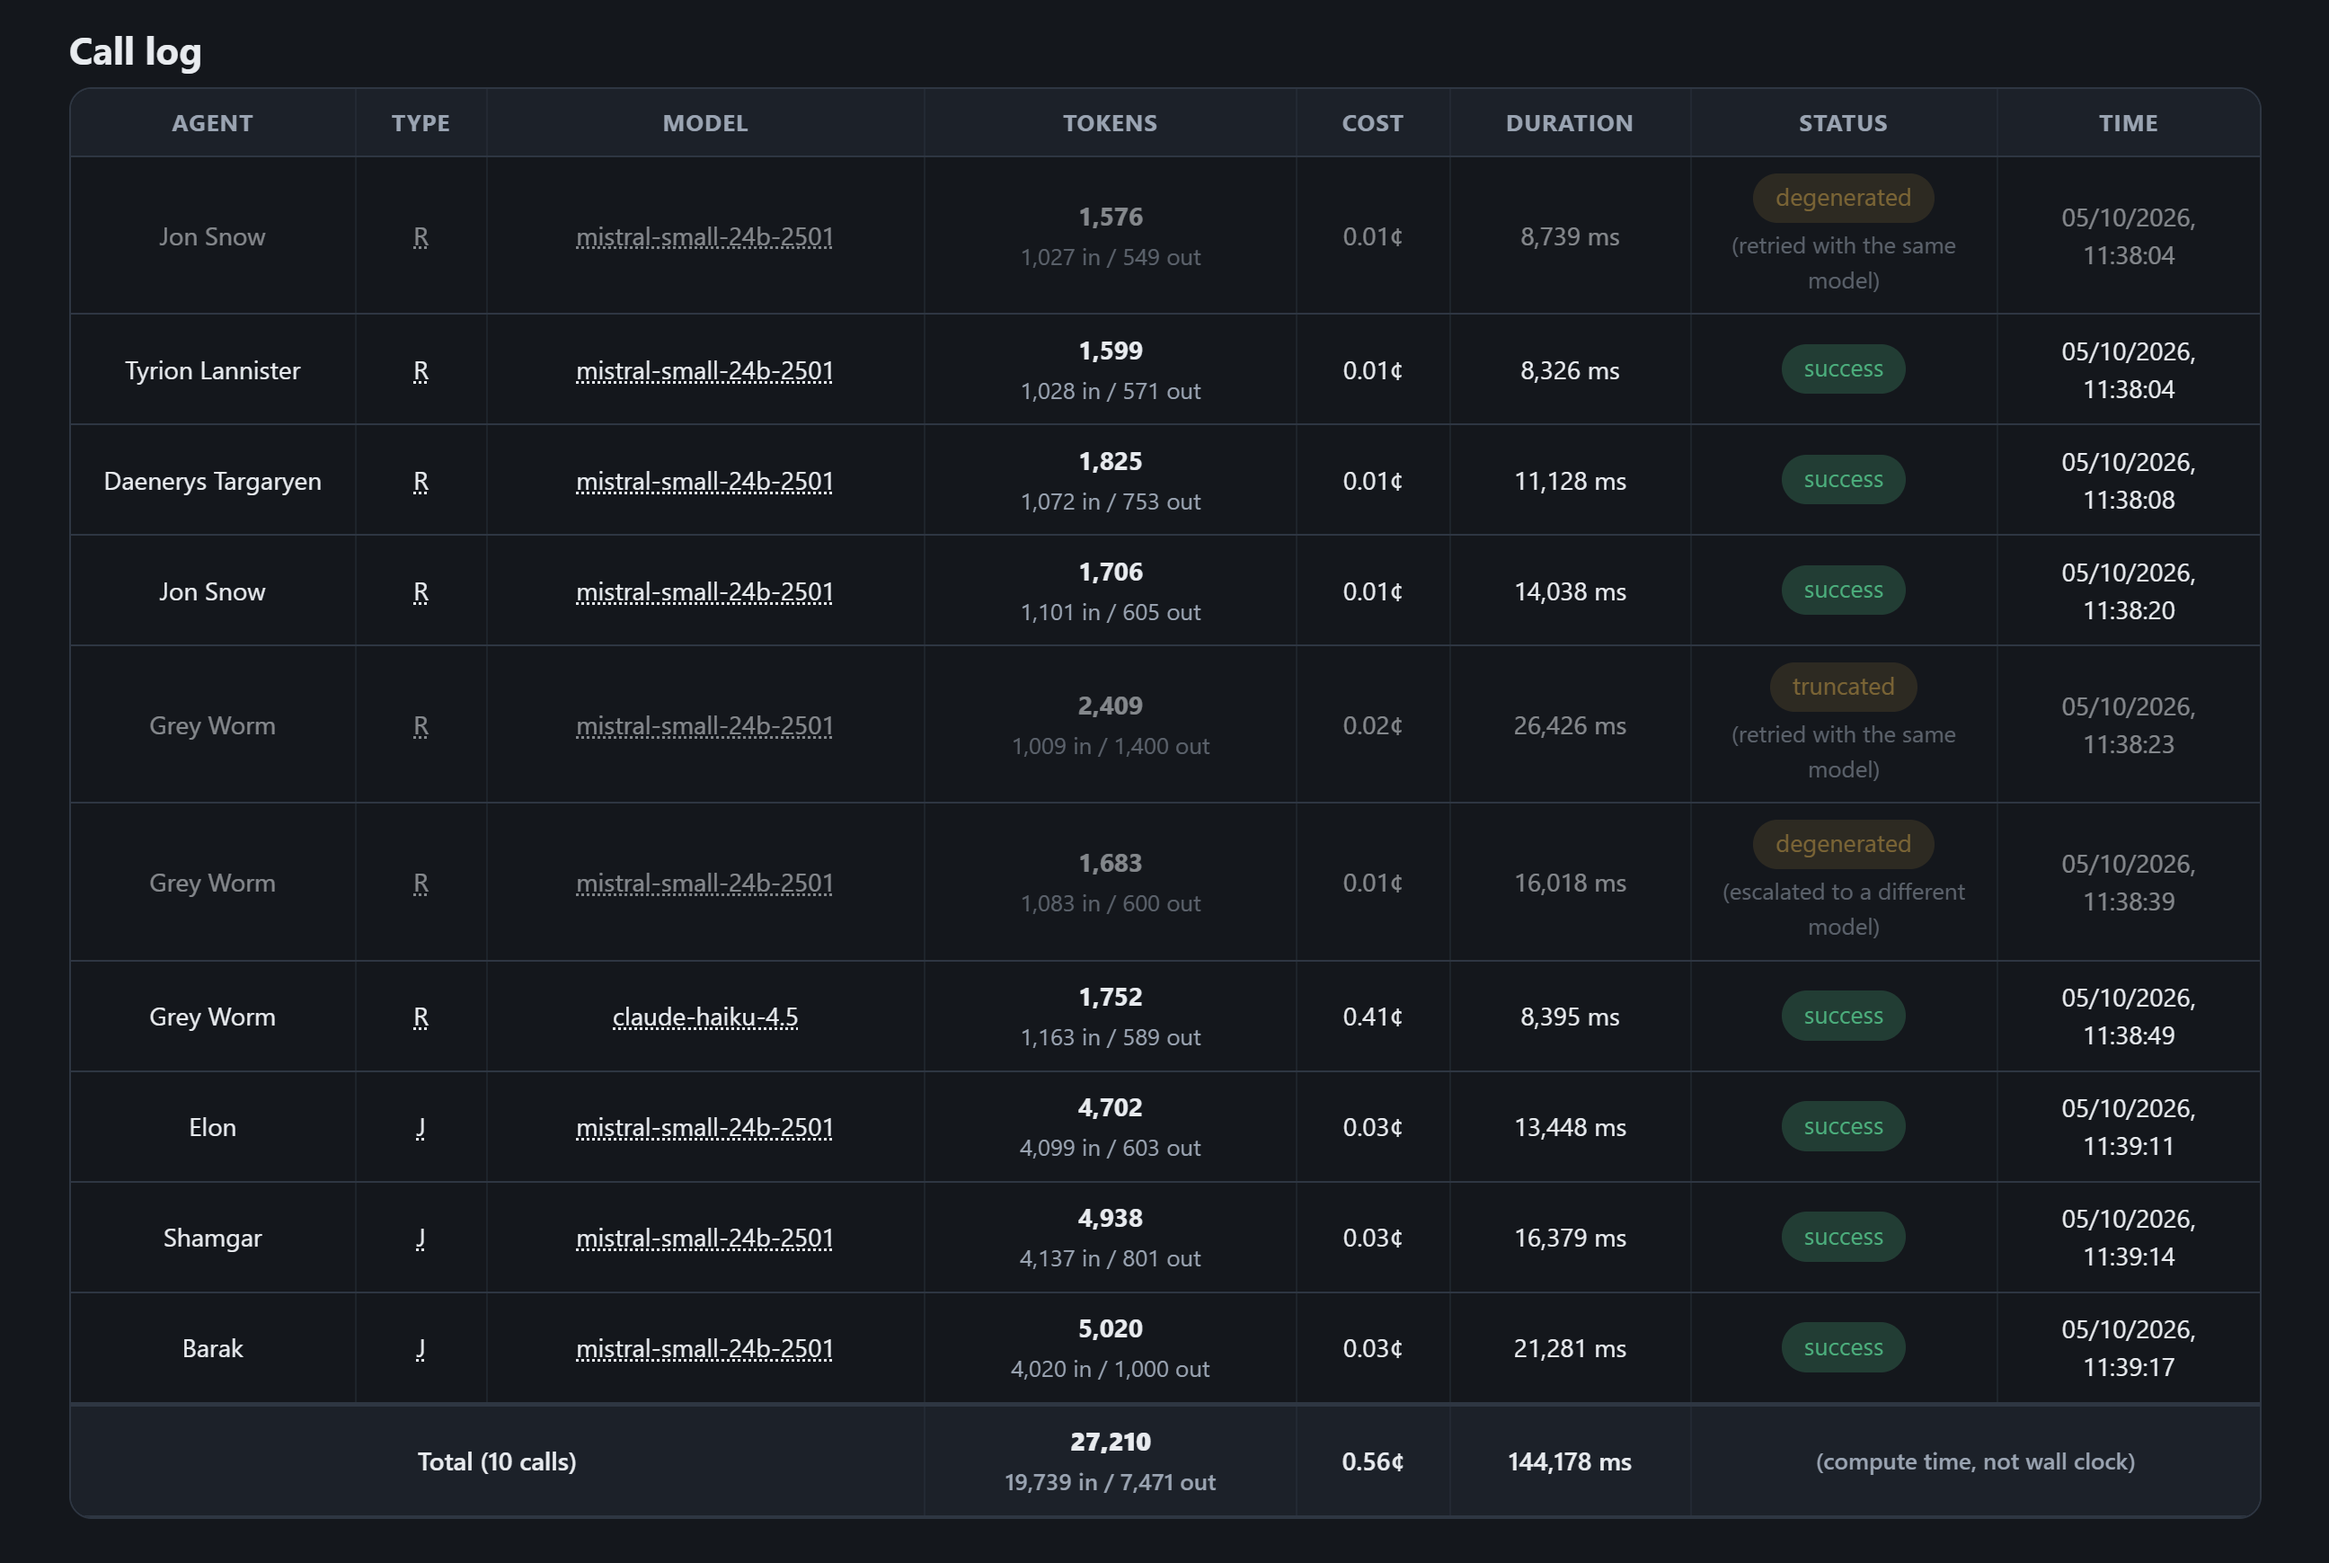
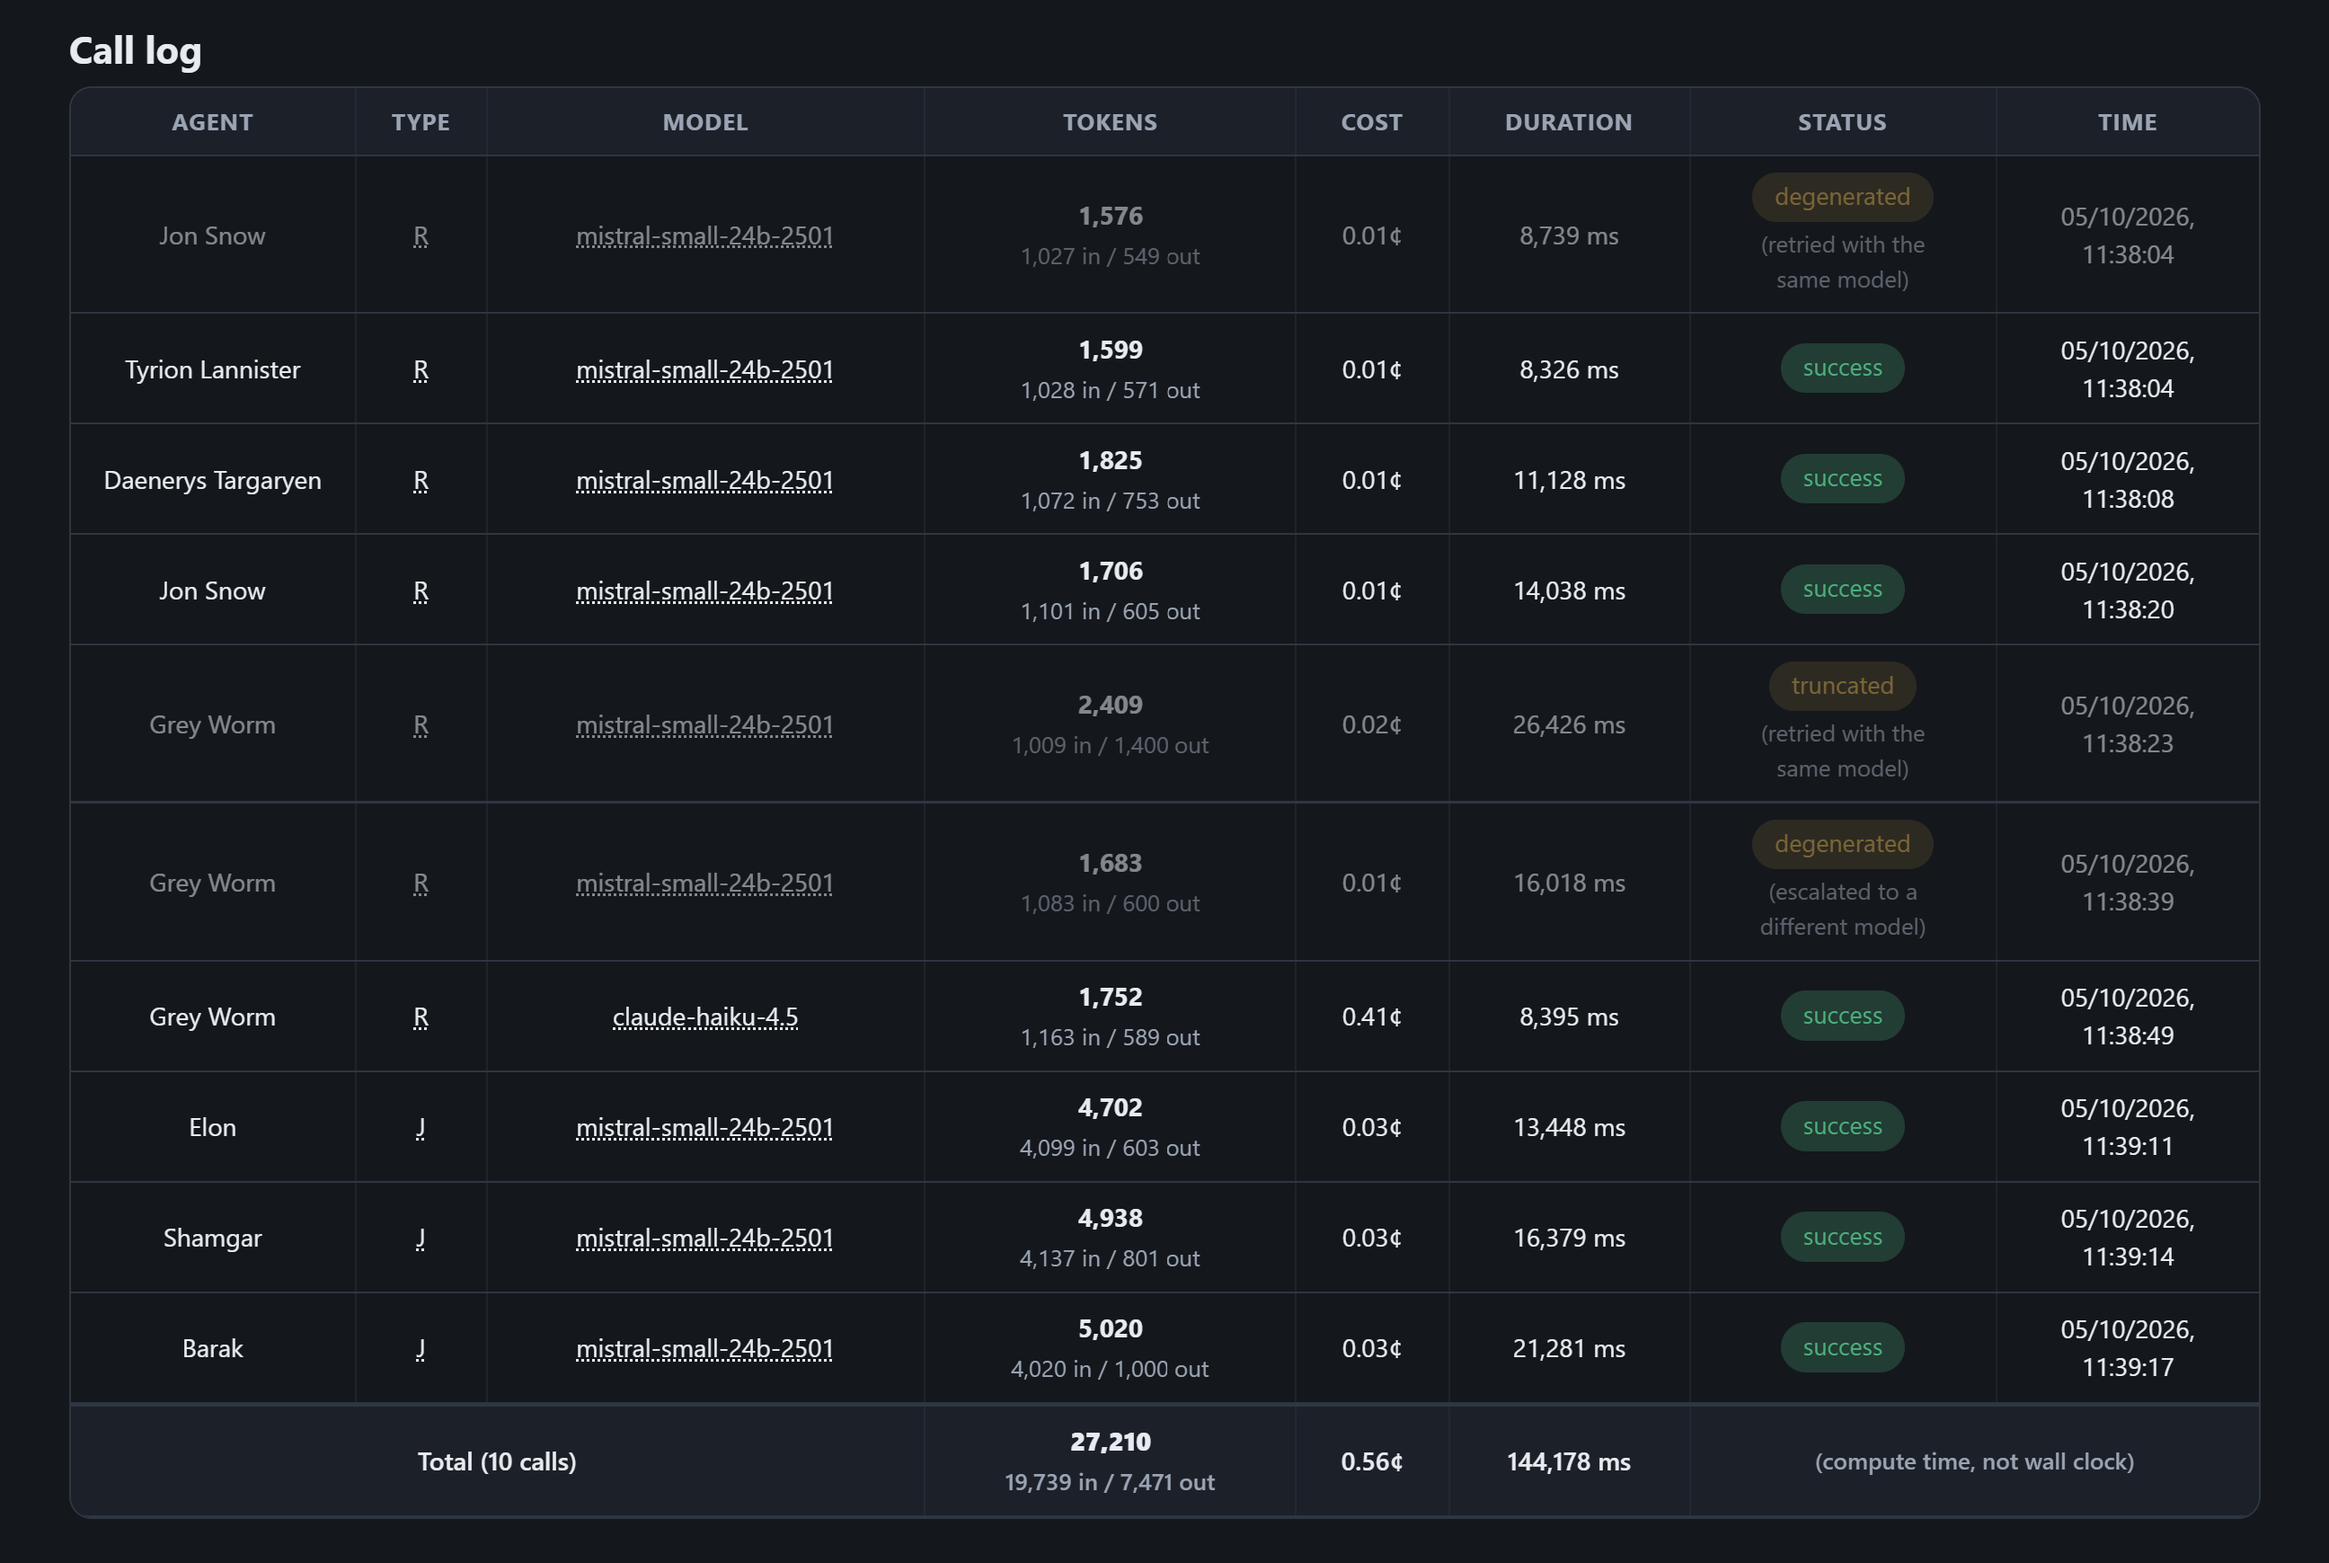
Re-capture README's call-log screenshot with the captions wrapping evenly
screenshots/readme-3-call-log.png shows trial 0a5de440 as before, at the
same size, 2592x1739, now with the Status captions wrapped by 9b7d8b0:
"(retried with the / same model)", twice, and "(escalated to a /
different model)". Compared with the capture it replaces, pixel by pixel
after alignment, every other part of the image - figures, badges, model
names, the totals row, the heading - matches exactly once moved by at
most one image pixel (half a CSS pixel at the capture's scale), the
table having laid out a pixel narrower and a pixel taller.

CLAUDE.md: the 2026-10-13 entry records the re-capture, its opening says
the screenshots showed the old wrapping then, and the 2026-10-06 entry on
the screenshot points to it. README's caption is unchanged.

npm test, npm run typecheck and npm run check-render pass.

diff --git a/CLAUDE.md b/CLAUDE.md
@@ -4729,6 +4729,8 @@ two decimals of a cent) and the totals (27,210 tokens, 0.56¢ of a stored
 0.5586¢, 144,178 ms) were checked against the stored rows, and the caption's
 reasons against their stored error messages. The status captions wrap with
 "model)" on a line of its own; that is the app at its widest layout.
+*(Re-captured on 2026-10-13, after the captions began to wrap evenly - see
+"2026-10-13: the call log's captions wrap evenly".)*
 
 **README's fourth screenshot: an aborted trial (same day).**
 `screenshots/readme-4-aborted-trial.png`, taken by the user, shows trial
@@ -5081,7 +5083,7 @@ the merge, so that right after it `main` and `draft` held identical trees.
 their last line (2026-10-13, on the user's request).** In the table view, a
 caption such as "(retried with the same model)" is just too long for its
 centred Status cell, and greedy wrapping put "model)" on a line of its own,
-as in README's call-log and aborted-trial screenshots.
+as README's call-log and aborted-trial screenshots then showed.
 
 - `table.call-log .status-caption` now sets `text-wrap: balance` and then
   `text-wrap: pretty`, inside `@media (width > 720px)`: a browser that
@@ -5106,6 +5108,19 @@ as in README's call-log and aborted-trial screenshots.
   the rule repeated in the card view, the card view's breakpoint moved
   alone, and its header rule renamed - each failed the checks meant for
   it, and a comment naming `text-wrap` on a caption passed.
+
+**README's call-log screenshot re-captured with the new wrapping (same
+day).** `screenshots/readme-3-call-log.png` shows trial `0a5de440` as
+before, at the same size, 2592×1739. Compared with the capture it replaces,
+pixel by pixel after alignment:
+
+- the three Status captions it holds now read "(retried with the / same
+  model)", twice, and "(escalated to a / different model)";
+- everything else - every figure, badge, model name, the totals row and the
+  heading - is the same, each part matching exactly once moved by at most
+  one image pixel, half a CSS pixel at the capture's scale, since the table
+  laid out a pixel narrower and a pixel taller than before. README's caption
+  for it is unchanged.
 
 ## Operational notes
 
